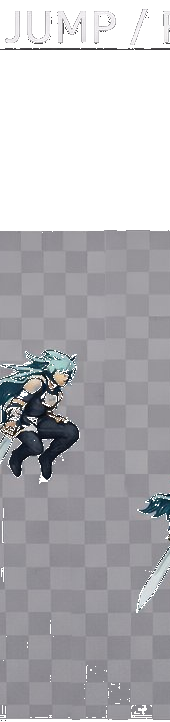
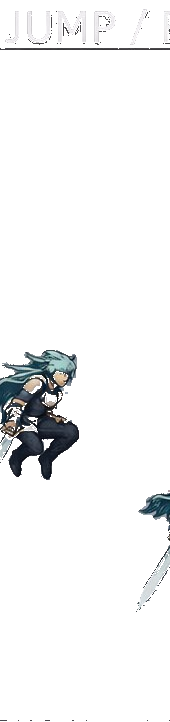
Fix slideshow (fps), run/jump dual-grey bg removal, preview dt guard

diff --git a/game.js b/game.js
@@ -32,20 +32,20 @@ const CHARACTERS = [
     animations: {
       idle: {
         frames: Array.from({length: 12}, (_, i) => `aeris_idle/aeris_idle_${String(i).padStart(2,'0')}.png`),
-        frameRate: 8, loop: true,
+        frameRate: 15, loop: true,
       },
       run: {
         frames: Array.from({length: 8},  (_, i) => `aeris_run/aeris_run_${String(i).padStart(2,'0')}.png`),
-        frameRate: 12, loop: true,
+        frameRate: 18, loop: true,
       },
       jump: {
         frames: Array.from({length: 9},  (_, i) => `aeris_jump/aeris_jump_${String(i).padStart(2,'0')}.png`),
-        frameRate: 10, loop: false,
+        frameRate: 14, loop: false,
       },
     },
-    // Aeris renders at this height in game pixels; scale is derived per-frame
-    // so she stays the same size regardless of individual frame dimensions.
-    targetHeight: 160,
+    // targetHeight: on-screen pixel height. Scale = targetHeight / frame.naturalHeight
+    // idle frames are 508px tall, run=628, jump=722. All render at targetHeight.
+    targetHeight: 220,
     feetOffsetY:  0.88,
   },
 ];
@@ -127,12 +127,13 @@ class Animation {
     const dy  = Math.round(y - dh * feetOffY);
 
     ctx.save();
+    ctx.imageSmoothingEnabled = false;          // crisp pixel art
+    ctx.globalCompositeOperation = 'source-over'; // normal blending
     if (flipX) {
       ctx.translate(x, 0);
       ctx.scale(-1, 1);
       ctx.translate(-x, 0);
     }
-    // Simple full-image draw — no sheet coordinate math needed
     ctx.drawImage(img, 0, 0, sw, sh, dx, dy, dw, dh);
     ctx.restore();
   }
@@ -623,10 +624,10 @@ class CharacterSelectScreen {
   }
 
   _startPreviewLoop() {
-    let last = performance.now();
+    let last = null;  // null on first frame so dt starts at 0
     const loop = (ts) => {
       this._rafId = requestAnimationFrame(loop);
-      const dt = Math.min((ts - last) / 1000, 0.05);
+      const dt = last === null ? 0 : Math.min((ts - last) / 1000, 0.05);
       last = ts;
 
       for (const entry of Object.values(this._previewAnims)) {
